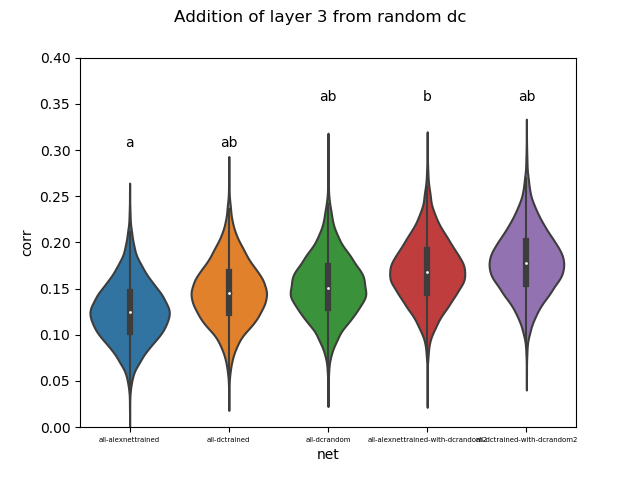
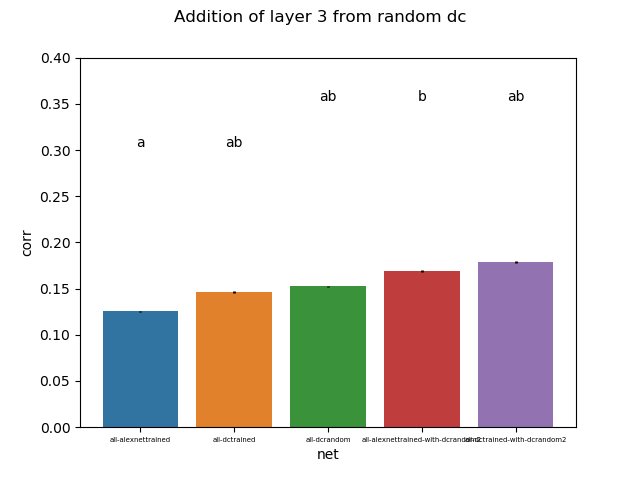
trying to implement within subject mean correction

diff --git a/code/bootstrapping_stats.py b/code/bootstrapping_stats.py
@@ -34,6 +34,7 @@ from sklearn.linear_model import RidgeCV
 from sklearn.model_selection import train_test_split
 from sklearn.model_selection import LeaveOneOut
 import random
+from scipy.stats import ttest_rel
 
 ## load activations dictionary 
 def load_dict(path):
@@ -42,32 +43,24 @@ def load_dict(path):
     return dict
 
 
-def main():
-    corr_values = load_dict('/home/annatruzzi/multiple_deepcluster/results/CombinedRegressionModels_BootstrappingValues_NNLS.pickle')
-    alpha=0.05
-    comparisons = [ ['all-dctrained','all-alexnettrained'],
-                    ['all-dcrandom','all-alexnettrained'],['all-dcrandom','all-dctrained'],
-                    ['all-alexnettrained-with-dcrandom2','all-alexnettrained'],['all-alexnettrained-with-dcrandom2','all-dctrained'],['all-alexnettrained-with-dcrandom2','all-dcrandom'],
-                    ['all-dctrained-with-dcrandom2','all-alexnettrained'],['all-dctrained-with-dcrandom2','all-dctrained'],['all-dctrained-with-dcrandom2','all-dcrandom'],['all-dctrained-with-dcrandom2','all-alexnettrained-with-dcrandom2'],
-                    ['all-alexnettrained-with-dcrandom3','all-alexnettrained'],['all-alexnettrained-with-dcrandom3','all-dctrained'],['all-alexnettrained-with-dcrandom3','all-dcrandom'],
-                    ['all-dctrained-with-dcrandom3','all-alexnettrained'],['all-dctrained-with-dcrandom3','all-dctrained'],['all-dctrained-with-dcrandom3','all-dcrandom'],['all-dctrained-with-dcrandom3','all-alexnettrained-with-dcrandom3']]
-
+def bootstrapping_confidenceinterval():
     ### model vs baseline
     with open('/home/annatruzzi/multiple_deepcluster/results/CombinedModels_BootstrappingStats.txt','w') as f:
         f.write('##### \n')
         f.write('MODELS vs BASELINE\n')
         f.write('##### \n')
         for key in list(corr_values.keys()):
-            b=corr_values[key].mean(axis=1)
+            #b=corr_values[key].mean(axis=1)
+            b = corr_values_mean_corrected[key]
             b_sort=np.sort(b)
             b_len=len(b_sort)
             b_lower=b_sort[int(np.round(b_len * alpha/2))]
             b_upper=b_sort[int(np.round(b_len * (1-alpha/2)))]
-            print('** ' + key)
-            print('lower and upper')
-            print(b_lower)
-            print(b_upper)
-            print('mean, sem, and sd')
+            #print('** ' + key)
+            #print('lower and upper')
+            #print(b_lower)
+            #print(b_upper)
+            #print('mean, sem, and sd')
             mean = np.nanmean(b)
             sem = scipy.stats.sem(b,nan_policy='omit')
             sd = np.nanstd(b)
@@ -82,19 +75,55 @@ def main():
         f.write('MODELS COMPARISON\n')
         f.write('##### \n')
         for comparison in comparisons:
-            d = corr_values[comparison[0]].mean(axis=1) - corr_values[comparison[1]].mean(axis=1)
+            #d = corr_values[comparison[0]].mean(axis=1) - corr_values[comparison[1]].mean(axis=1)
+            d = corr_values_mean_corrected[comparison[0]] - corr_values_mean_corrected[comparison[1]]
             d_sort=np.sort(d)
             d_len=len(d_sort)
             d_lower=d_sort[int(np.round(d_len * alpha/2))]
             d_upper=d_sort[int(np.round(d_len * (1-alpha/2)))]
-            print(f'{comparison[0]} vs {comparison[1]}' )
-            print(d_lower)
-            print(d_upper)
+            #print(f'{comparison[0]} vs {comparison[1]}' )
+            #print(d_lower)
+            #print(d_upper)
             f.write('#')
             f.write(f'{comparison[0]} VS {comparison[1]} \n')
             f.write(f'Lower bound={d_lower}, Upper bound={d_upper} \n')
             f.write('\n')
 
+def posthoc_ttest():
+    with open('/home/annatruzzi/multiple_deepcluster/results/CombinedModels_BootstrappingStats_ttests.txt','w') as f:
+        f.write('##### \n')
+        f.write('T TESTs\n')
+        f.write('##### \n')
+
+        f.write('##### \n')
+        f.write('MODELS COMPARISON\n')
+        f.write('##### \n')
+        for comparison in comparisons:
+            #d = corr_values[comparison[0]].mean(axis=1) - corr_values[comparison[1]].mean(axis=1)
+            t,p = ttest_rel(corr_values_mean_corrected[comparison[0]],corr_values_mean_corrected[comparison[1]])
+            print(f'{comparison[0]} vs {comparison[1]}' )
+            print(t)
+            print(p)
+            f.write('#')
+            f.write(f'{comparison[0]} VS {comparison[1]} \n')
+            f.write(f't={t}, p={p} \n')
+            f.write('\n')
 
 if __name__ == '__main__':
-    main()
+    corr_values = load_dict('/home/annatruzzi/multiple_deepcluster/results/CombinedRegressionModels_BootstrappingValues_NNLS.pickle')
+    alpha=0.05
+    comparisons = [ ['all-dctrained','all-alexnettrained'],
+                    ['all-dcrandom','all-alexnettrained'],['all-dcrandom','all-dctrained'],
+                    ['all-alexnettrained-with-dcrandom2','all-alexnettrained'],['all-alexnettrained-with-dcrandom2','all-dctrained'],['all-alexnettrained-with-dcrandom2','all-dcrandom'],
+                    ['all-dctrained-with-dcrandom2','all-alexnettrained'],['all-dctrained-with-dcrandom2','all-dctrained'],['all-dctrained-with-dcrandom2','all-dcrandom'],['all-dctrained-with-dcrandom2','all-alexnettrained-with-dcrandom2'],
+                    ['all-alexnettrained-with-dcrandom3','all-alexnettrained'],['all-alexnettrained-with-dcrandom3','all-dctrained'],['all-alexnettrained-with-dcrandom3','all-dcrandom'],
+                    ['all-dctrained-with-dcrandom3','all-alexnettrained'],['all-dctrained-with-dcrandom3','all-dctrained'],['all-dctrained-with-dcrandom3','all-dcrandom'],['all-dctrained-with-dcrandom3','all-alexnettrained-with-dcrandom3']]
+
+    grand_average = np.mean(np.array(list(corr_values.values())))
+    corr_values_mean_corrected = {}
+    for key in corr_values.keys():
+        corr_values_mean_corrected[key] = corr_values[key].mean(axis=1) - np.mean(corr_values[key].mean(axis=1)) + grand_average
+        print(np.mean(corr_values_mean_corrected[key]))
+
+    bootstrapping_confidenceinterval()
+    posthoc_ttest()

diff --git a/code/bootstrapping_plots.py b/code/bootstrapping_plots.py
@@ -28,20 +28,40 @@ def load_dict(path):
 
 def main():
     corr_values = load_dict('/home/annatruzzi/multiple_deepcluster/results/CombinedRegressionModels_BootstrappingValues_NNLS.pickle')
+
+    grand_average = np.mean(np.array(list(corr_values.values())))
+    corr_values_mean_corrected = {}
+    for key in corr_values.keys():
+        corr_values_mean_corrected[key] = corr_values[key].mean(axis=1) - np.mean(corr_values[key].mean(axis=1)) + grand_average
+
     corr = []
     net = []
-    for key in corr_values.keys():
+    for key in corr_values_mean_corrected.keys():
         mean_across_crossval = np.mean(corr_values[key],axis=1)
         corr.extend(mean_across_crossval)
         net.extend(np.repeat(key,len(mean_across_crossval)))
+        #corr.extend(corr_values_mean_corrected[key])
+        #net.extend(np.repeat(key,len(corr_values_mean_corrected[key])))
     dict_all = {'corr': corr,
                 'net': net}
     df_all = pd.DataFrame(dict_all)
     df_layer2 = df_all[(df_all['net']!= 'all-alexnettrained-with-dcrandom3') & (df_all['net']!= 'all-dctrained-with-dcrandom3')]
     df_layer3 = df_all[(df_all['net']!= 'all-alexnettrained-with-dcrandom2') & (df_all['net']!= 'all-dctrained-with-dcrandom2')]
 
-    g1=sns.violinplot(x='net',y='corr',data=df_layer2)
+    errbars_layer2 = []
+    errbars_layer3 = []
+
+    for net in df_layer2['net'].unique():
+        errbars_layer2.append(1.96*sem(df_layer2[df_layer2['net']==net]['corr']))
+
+    for net in df_layer3['net'].unique():
+        errbars_layer3.append(1.96*sem(df_layer3[df_layer3['net']==net]['corr']))
+
+    g1=sns.barplot(x='net',y='corr',data=df_layer2, ci=None)
     g1.set_xticklabels(g1.get_xticklabels(), size = 5)
+    x_coords = [p.get_x() + 0.5*p.get_width() for p in g1.patches]
+    y_coords = [p.get_height() for p in g1.patches]
+    plt.errorbar(x_coords, y_coords, fmt='none', yerr=errbars_layer2, c="black", elinewidth=2)
     plt.suptitle('Addition of layer 2 from random dc')
     plt.ylim((0,0.4))
     g1.text(0, 0.30, "a", ha='center', va='bottom',fontsize = 10)  
@@ -52,9 +72,12 @@ def main():
     plt.savefig('/home/annatruzzi/multiple_deepcluster/figures/bootstrapping_plots_withdcrandomd_layer2.png')
     plt.close()
 
-    g2=sns.violinplot(x='net',y='corr',data=df_layer2)
+    g2=sns.barplot(x='net',y='corr',data=df_layer2, ci=None)
     g2.set_xticklabels(g2.get_xticklabels(), size = 5)
     plt.ylim((0,0.4))
+    x_coords = [p.get_x() + 0.5*p.get_width() for p in g2.patches]
+    y_coords = [p.get_height() for p in g2.patches]
+    plt.errorbar(x_coords, y_coords, fmt='none', yerr=errbars_layer3, c="black", elinewidth=2)
     g2.text(0, 0.30, "a", ha='center', va='bottom',fontsize = 10)  
     g2.text(1, 0.30, "ab", ha='center', va='bottom',fontsize = 10)  
     g2.text(2, 0.35, "ab", ha='center', va='bottom',fontsize = 10)  

diff --git a/code/bootstrapping_models.py b/code/bootstrapping_models.py
@@ -221,8 +221,8 @@ def main(layers):
             f.write(' Upper noise ceiling %f +/- %f'%(np.mean(corr_nu_xvalmean),scipy.stats.sem(corr_nu_xvalmean)) + '\n')
             f.write('\n')
 
-        #with open('/home/annatruzzi/multiple_deepcluster/results/CombinedRegressionModels_BootstrappingValues_NNLS.pickle', 'wb') as handle:
-            #pickle.dump(out_corr_model, handle)
+        with open('/home/annatruzzi/multiple_deepcluster/results/CombinedRegressionModels_BootstrappingValues_NNLS.pickle', 'wb') as handle:
+            pickle.dump(out_corr_model, handle)
 
 
 if __name__ == '__main__':
